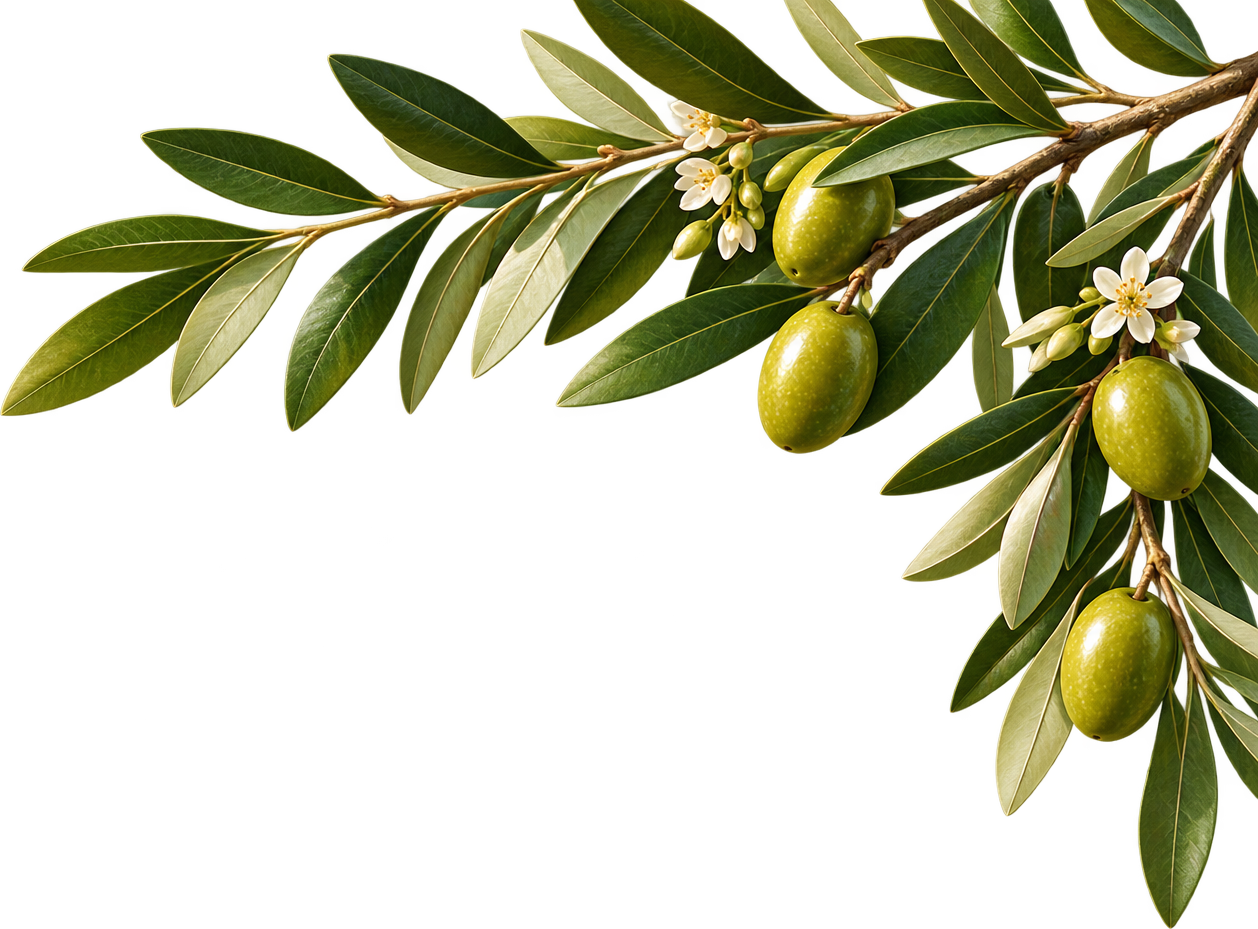
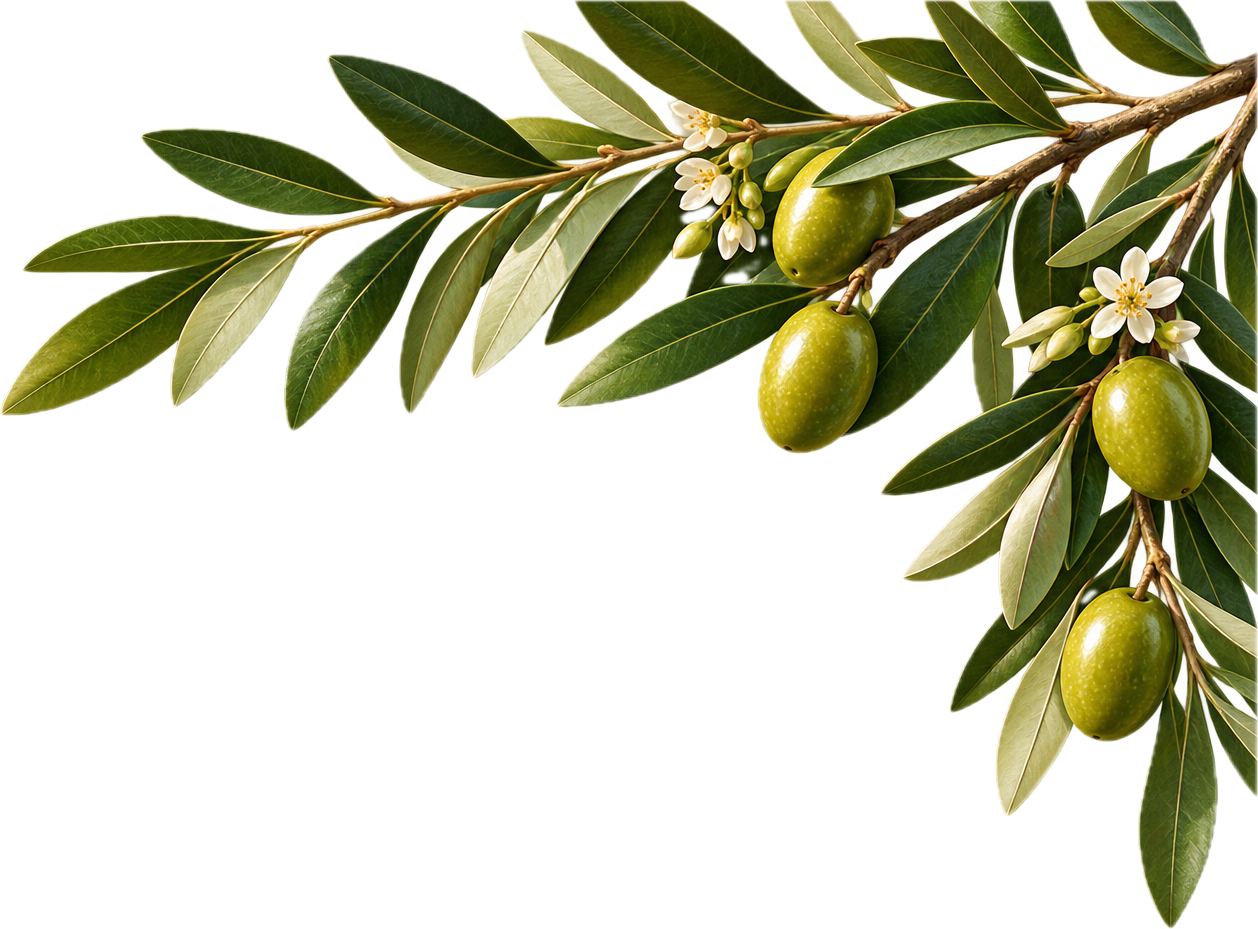
Pied de page : colonnes rapprochées du paysage, bouton WhatsApp au vert du site, brin d'olivier détouré posé au-dessus de la lettre d'information

diff --git a/apps/boutique/src/components/art.ts b/apps/boutique/src/components/art.ts
@@ -15,5 +15,6 @@ export type ArtName =
   | 'footer-droite'
   | 'footer-collines'
   | 'footer-olivier'
+  | 'footer-olivier-brin'
   | 'footer-oeufs-heureux'
   | 'footer-gout-local';
